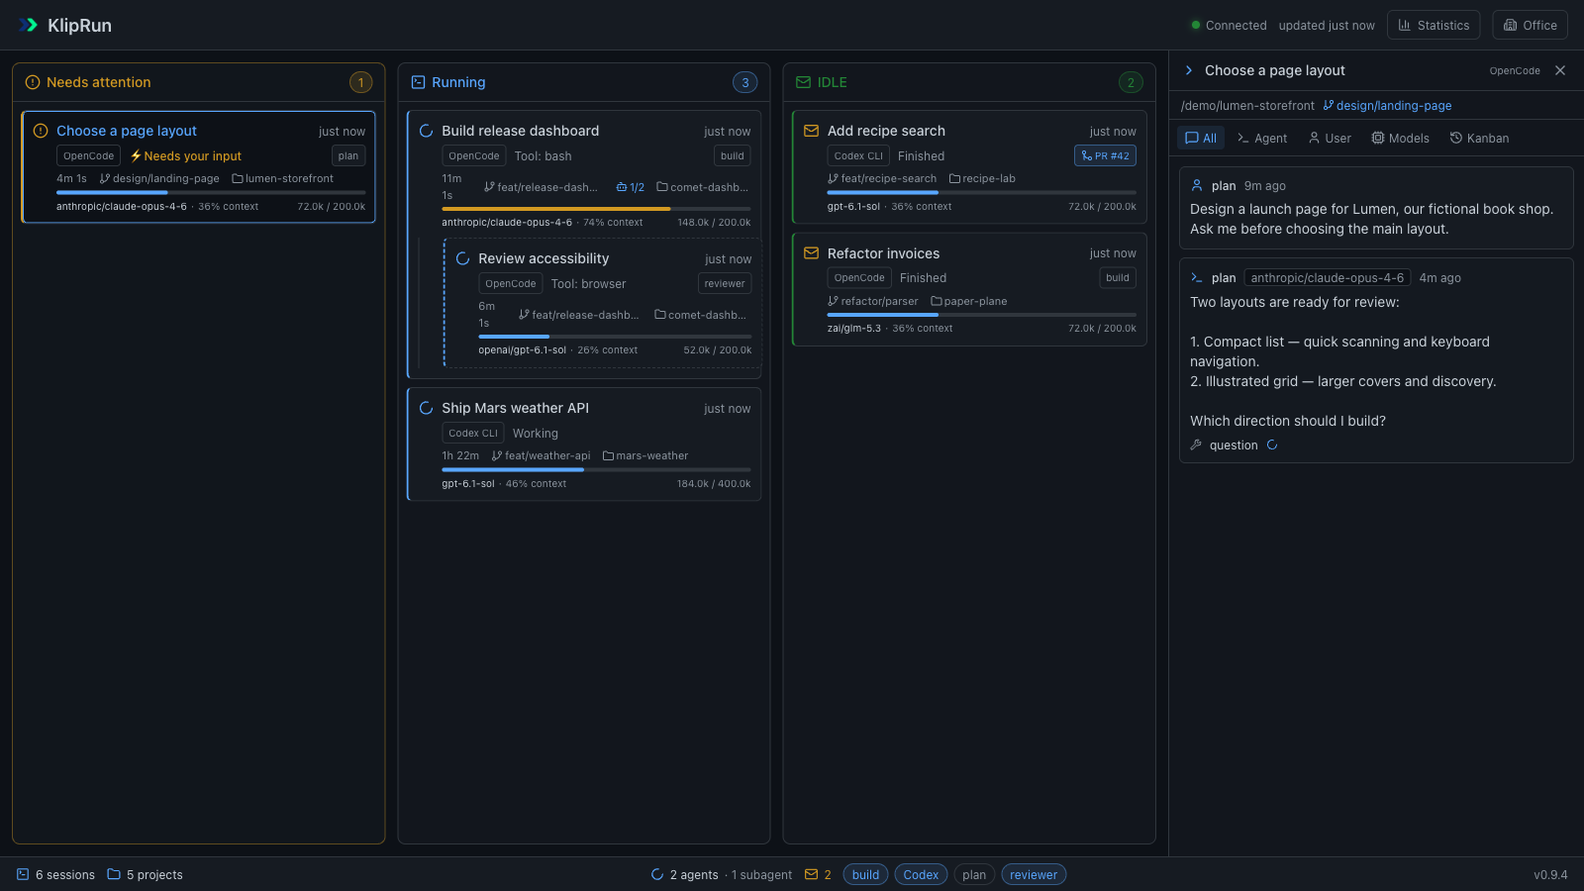
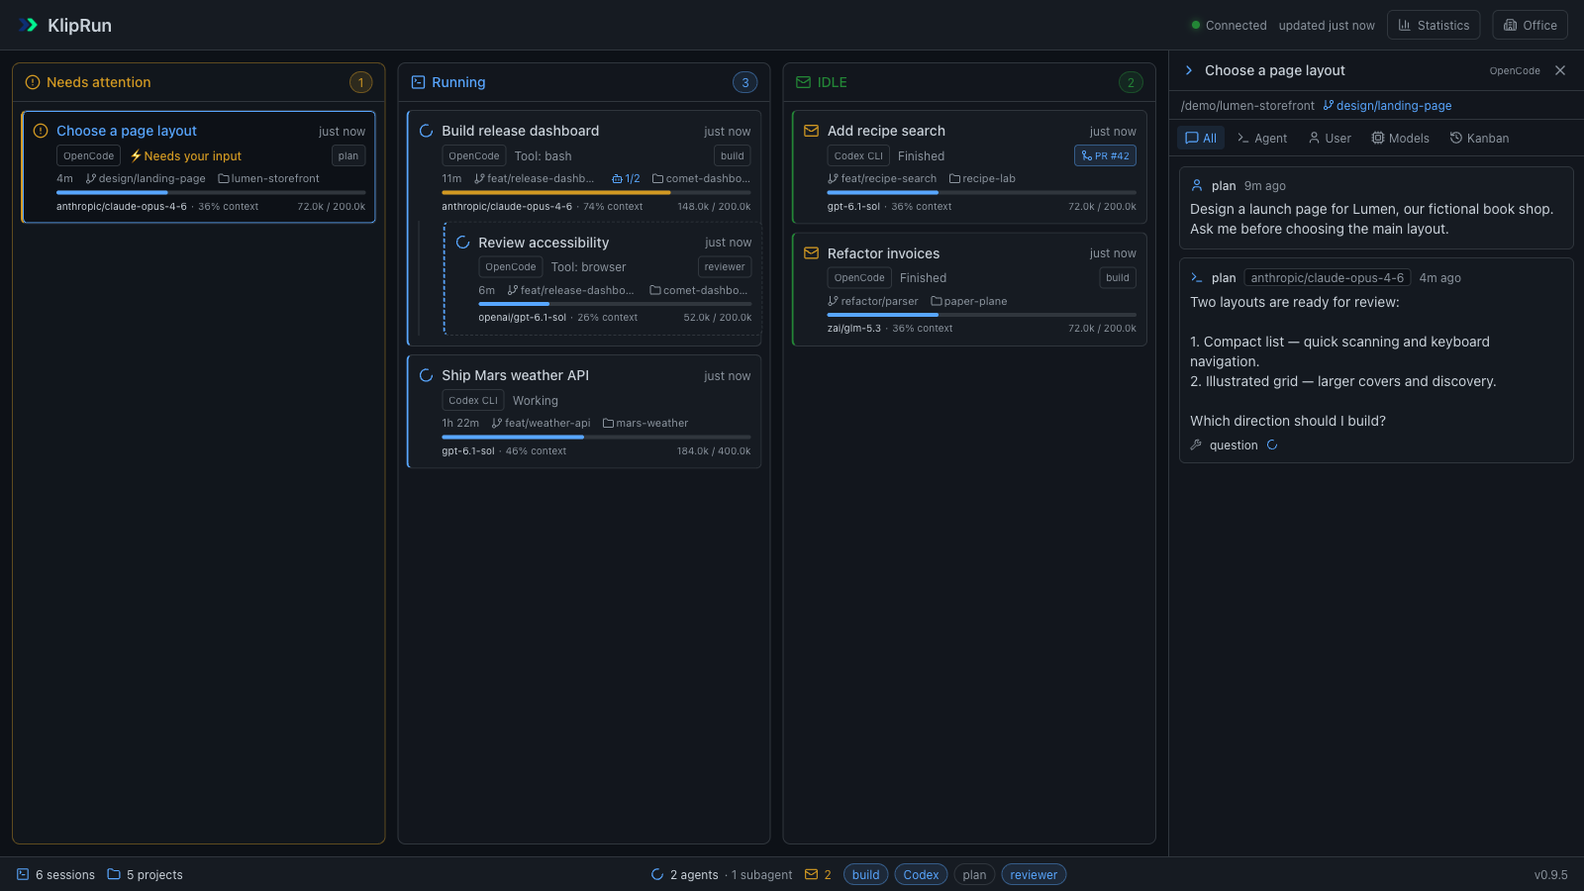
KlipRun: show unread idle coworkers in Office (v0.9.5)

Changed region(s): [[0.25, 0.1867, 0.4688, 0.56], [0.0625, 0.1867, 0.1875, 0.2178]]

diff --git a/src/client/src/office/__tests__/Office.test.tsx b/src/client/src/office/__tests__/Office.test.tsx
@@ -1,9 +1,12 @@
 import { expect, test } from "bun:test";
 import { renderToStaticMarkup } from "react-dom/server";
 import type { BoardPayload, CardPayload } from "../../../../shared/types";
+import { createReadTracker } from "../../../../shared/readTracker";
 import Office from "../Office";
 import { OfficeLeaderboard } from "../Leaderboard";
 import { updatePlacements } from "../placement";
+
+const readAll = () => true;
 
 function card(id: string, overrides: Partial<CardPayload> = {}): CardPayload {
   return {
@@ -28,7 +31,7 @@ function board(cards: CardPayload[]): BoardPayload {
 }
 
 test("office shows real sessions and active children with their observed states", () => {
-  const html = renderToStaticMarkup(<Office board={board([
+  const html = renderToStaticMarkup(<Office isRead={readAll} board={board([
     card("coder", { children: [card("helper", { parent_id: "coder" })] }),
     card("question", { column: "attention" }),
     card("rest", { column: "idle" }),
@@ -44,12 +47,12 @@ test("office shows real sessions and active children with their observed states"
 });
 
 test("office distinguishes loading from an empty live board", () => {
-  expect(renderToStaticMarkup(<Office board={null} onSelect={() => {}} />)).toContain("Loading office");
-  expect(renderToStaticMarkup(<Office board={board([])} onSelect={() => {}} />)).toContain("The office is quiet");
+  expect(renderToStaticMarkup(<Office isRead={readAll} board={null} onSelect={() => {}} />)).toContain("Loading office");
+  expect(renderToStaticMarkup(<Office isRead={readAll} board={board([])} onSelect={() => {}} />)).toContain("The office is quiet");
 });
 
 test("the empty waiting area is a persistent meeting room rather than an unoccupied help queue", () => {
-  const html = renderToStaticMarkup(<Office board={board([])} onSelect={() => {}} />);
+  const html = renderToStaticMarkup(<Office isRead={readAll} board={board([])} onSelect={() => {}} />);
   expect(html).toContain('aria-label="Meeting room"');
   expect(html).toContain('aria-label="Meeting room available"');
   expect(html).not.toContain("Human needed");
@@ -57,7 +60,7 @@ test("the empty waiting area is a persistent meeting room rather than an unoccup
 });
 
 test("a coworker with a question sits in the meeting room and requests input immediately", () => {
-  const html = renderToStaticMarkup(<Office board={board([card("question", { column: "attention", running_since: null })])} onSelect={() => {}} />);
+  const html = renderToStaticMarkup(<Office isRead={readAll} board={board([card("question", { column: "attention", running_since: null })])} onSelect={() => {}} />);
   const meeting = html.match(/<section[^>]*aria-label="Meeting room"[\s\S]*?<\/section>/)?.[0];
   expect(meeting).toBeDefined();
   expect(meeting).toContain('aria-label="Meeting needs your input"');
@@ -65,7 +68,7 @@ test("a coworker with a question sits in the meeting room and requests input imm
 });
 
 test("office rooms are independent peers in work, idle, meeting, superwork order with plain headings", () => {
-  const html = renderToStaticMarkup(<Office board={board([])} onSelect={() => {}} />);
+  const html = renderToStaticMarkup(<Office isRead={readAll} board={board([])} onSelect={() => {}} />);
   let depth = 0;
   const rooms: Array<{ name: string; depth: number }> = [];
   for (const match of html.matchAll(/<section\b[^>]*>|<\/section>/g)) {
@@ -84,7 +87,7 @@ test("office rooms are independent peers in work, idle, meeting, superwork order
 });
 
 test("a coworker keeps their color when their state and board position change", () => {
-  const render = (cards: CardPayload[]) => renderToStaticMarkup(<Office board={board(cards)} onSelect={() => {}} />);
+  const render = (cards: CardPayload[]) => renderToStaticMarkup(<Office isRead={readAll} board={board(cards)} onSelect={() => {}} />);
   const before = render([card("same"), card("other")]);
   const after = render([card("other"), card("same", { column: "attention" })]);
   const color = (html: string) => html.match(/data-session-id="same"[^>]*style="([^"]+)"/)?.[1];
@@ -95,7 +98,7 @@ test("a coworker keeps their color when their state and board position change", 
 
 test("only continuous running beyond one hour enters the superwork zone", () => {
   const now = 7_200_000;
-  const html = renderToStaticMarkup(<Office now={now} board={board([
+  const html = renderToStaticMarkup(<Office isRead={readAll} now={now} board={board([
     card("fresh", { running_since: now - 10_000 }),
     card("exact-hour", { running_since: now - 3_600_000 }),
     card("overtime", { running_since: now - 3_600_001 }),
@@ -115,13 +118,13 @@ test("only continuous running beyond one hour enters the superwork zone", () => 
 });
 
 test("the office keeps all three physical zones visible even without coworkers", () => {
-  const html = renderToStaticMarkup(<Office board={board([])} onSelect={() => {}} />);
+  const html = renderToStaticMarkup(<Office isRead={readAll} board={board([])} onSelect={() => {}} />);
   for (const zone of ["work", "lounge", "superwork"]) expect(html).toContain(`data-zone="${zone}"`);
 });
 
 test("the same running session moves after the hour boundary and leaves when it rests", () => {
   const live = board([card("traveler", { running_since: 1000 })]);
-  const render = (data: BoardPayload, now: number) => renderToStaticMarkup(<Office board={data} now={now} onSelect={() => {}} />);
+  const render = (data: BoardPayload, now: number) => renderToStaticMarkup(<Office isRead={readAll} board={data} now={now} onSelect={() => {}} />);
   expect(render(live, 3_601_000)).toContain('data-office-zone="work"');
   expect(render(live, 3_601_001)).toContain('data-office-zone="superwork"');
   const rested = board([card("traveler", { column: "idle", running_since: null })]);
@@ -129,7 +132,7 @@ test("the same running session moves after the hour boundary and leaves when it 
 });
 
 test("coworkers show their model and the time spent in their current state above their heads", () => {
-  const html = renderToStaticMarkup(<Office now={120_000} board={board([
+  const html = renderToStaticMarkup(<Office isRead={readAll} now={120_000} board={board([
     card("worker", { running_since: 60_000, model_ref: "openai/gpt-6.1" }),
     card("idle-timer", { column: "idle", running_since: null, stage_since: 30_000, finished_at: 10_000, model_ref: "anthropic/claude-opus" }),
     card("wait-timer", { column: "attention", running_since: null, stage_since: 110_000 }),
@@ -164,6 +167,33 @@ test("leaderboard ranks current coworkers by accumulated usage, not their contex
   expect(html).toContain("No data");
   expect(html).toContain("Partial data");
   expect(html).not.toContain("foreign");
+});
+
+test("unread idle coworkers ask for review and return to their normal resting pose after viewing", () => {
+  const tracker = createReadTracker(null);
+  const idle = card("review", { column: "idle", running_since: null, stage_since: 1000, finished_at: 1000 });
+  const render = (item = idle) => renderToStaticMarkup(<Office now={3000} board={board([item])} isRead={tracker.isRead} onSelect={() => {}} />);
+  const unread = render();
+  expect(unread).toContain('data-office-unread="true"');
+  expect(unread).toContain("Not viewed yet");
+  expect(unread).not.toContain('class="office-zzz"');
+  expect(unread).toContain('data-office-state="resting" data-office-zone="lounge"');
+  tracker.markRead(idle);
+  const viewed = render();
+  expect(viewed).toContain('data-office-unread="false"');
+  expect(viewed).toContain('class="office-zzz"');
+  expect(viewed).not.toContain("Not viewed yet");
+  const completedAgain = { ...idle, stage_since: 2000, finished_at: 2000 };
+  expect(render(completedAgain)).toContain('data-office-unread="true"');
+});
+
+test("unknown, working and waiting statuses do not gain an unread idle pose", () => {
+  for (const item of [card("active"), card("question", { column: "attention" }),
+    card("unknown", { source: "codex", column: "idle", stage: "Status unknown" })]) {
+    const html = renderToStaticMarkup(<Office now={3000} board={board([item])} isRead={() => false} onSelect={() => {}} />);
+    expect(html).toContain('data-office-unread="false"');
+    expect(html).not.toContain('data-office-unread="true"');
+  }
 });
 
 test("a brief idle snapshot keeps the coworker at their desk and resuming cancels the move", () => {

diff --git a/src/client/src/office/Office.tsx b/src/client/src/office/Office.tsx
@@ -1,6 +1,7 @@
 import { useEffect, useMemo, useRef, type CSSProperties } from "react";
 import { ArrowLeft } from "lucide-react";
 import type { BoardPayload, CardPayload } from "@shared/types";
+import type { TrackedCard } from "@shared/readTracker";
 import { formatDuration } from "@shared/format";
 import { colorFor, Mascot, modelName } from "./appearance";
 import { OfficeLeaderboard, useOfficeUsage } from "./Leaderboard";
@@ -12,7 +13,7 @@ const CAPTIONS = {
   resting: "On a coffee break", unknown: "Status unknown", error: "A little technical drama",
 };
 
-function Workstation({ state, small, zone }: { state: ReturnType<typeof stateFor>; small: boolean; zone: OfficeZone }) {
+function Workstation({ state, small, zone, unread }: { state: ReturnType<typeof stateFor>; small: boolean; zone: OfficeZone; unread: boolean }) {
   const atDesk = state === "working";
   return <svg viewBox="0 0 240 164" className="office-station" aria-hidden="true" shapeRendering="crispEdges">
     <ellipse cx="120" cy="145" rx="83" ry="9" fill="#101722" opacity=".35" />
@@ -37,12 +38,13 @@ function Workstation({ state, small, zone }: { state: ReturnType<typeof stateFor
     {state === "waiting" && <g className="office-bubble"><path d="M132 13h30v28h-18l-8 8v-8h-4z" fill="#efd081" /><text x="147" y="34" textAnchor="middle" fill="#392e21" fontSize="22" fontWeight="bold">?</text></g>}
     {state === "error" && <g className="office-bubble"><path d="M132 13h30v28h-18l-8 8v-8h-4z" fill="#f38c86" /><text x="147" y="34" textAnchor="middle" fill="#392e21" fontSize="22" fontWeight="bold">!</text></g>}
     {state === "unknown" && <text x="150" y="36" fill="#9aa9be" fontSize="22">?</text>}
-    {state === "resting" && <text className="office-zzz" x="147" y="42" fill="#a5b6cc" fontSize="16">z z</text>}
+    {state === "resting" && !unread && <text className="office-zzz" x="147" y="42" fill="#a5b6cc" fontSize="16">z z</text>}
   </svg>;
 }
 
-export default function Office({ board, onSelect, onBack, now = Date.now() }: {
-  board: BoardPayload | null; onSelect: (id: string) => void; onBack?: () => void; now?: number;
+export default function Office({ board, onSelect, onBack, isRead, now = Date.now() }: {
+  board: BoardPayload | null; onSelect: (id: string) => void; onBack?: () => void;
+  isRead: (card: TrackedCard) => boolean; now?: number;
 }) {
   const residents = useMemo(() => {
     const result: CardPayload[] = [];
@@ -84,19 +86,20 @@ export default function Office({ board, onSelect, onBack, now = Date.now() }: {
 
   const renderResident = (card: CardPayload, zone: OfficeZone) => {
     const state = stateFor(card);
+    const unread = zone === "lounge" && card.column === "idle" && state !== "unknown" && !isRead(card);
     const since = state === "working" ? card.running_since : state === "unknown" ? null : card.stage_since;
     const duration = since !== null && since > 0 && Number.isFinite(since) ? formatDuration(Math.max(0, now - since)) : null;
     const timerLabel = { working: "Working", resting: "Idle", waiting: "Waiting", error: "Error", unknown: "Status unknown" }[state];
     const model = modelName(card);
-    return <button type="button" key={card.session_id} data-session-id={card.session_id} data-office-state={state} data-office-zone={zone}
-      className={`office-resident office-${state}`} style={{ "--resident-color": colorFor(card.session_id) } as CSSProperties}
-      onClick={() => onSelect(card.session_id)} aria-label={`${card.title} — ${CAPTIONS[state]} — ${card.stage}`}
-      title={`${card.title}\n${card.directory_name} · ${model}${card.parent_id ? " · Subagent" : ""}\n${card.stage}${duration ? ` · ${duration}` : ""}${card.error ? `\n${card.error}` : ""}`}>
+    return <button type="button" key={card.session_id} data-session-id={card.session_id} data-office-state={state} data-office-zone={zone} data-office-unread={unread}
+      className={`office-resident office-${state}${unread ? " office-unread" : ""}`} style={{ "--resident-color": colorFor(card.session_id) } as CSSProperties}
+      onClick={() => onSelect(card.session_id)} aria-label={`${card.title} — ${CAPTIONS[state]} — ${card.stage}${unread ? " — Not viewed yet" : ""}`}
+      title={`${card.title}\n${card.directory_name} · ${model}${card.parent_id ? " · Subagent" : ""}\n${card.stage}${duration ? ` · ${duration}` : ""}${card.error ? `\n${card.error}` : ""}${unread ? "\nNot viewed yet — click to inspect" : ""}`}>
       <span className="office-timer" data-timer-state={state}>
         <span className="office-timer-session">{card.title}</span>
         <span>{timerLabel}{duration ? ` · ${duration}` : state === "unknown" ? "" : " · —"}</span>
       </span>
-      <Workstation state={state} small={!!card.parent_id} zone={zone} />
+      <Workstation state={state} small={!!card.parent_id} zone={zone} unread={unread} />
       <span className="office-nameplate"><span className="office-model-label">{model}</span>{card.parent_id && <small>Subagent</small>}</span>
       <span className="office-tooltip"><strong>{card.title}</strong><span>{card.directory_name} · {card.source}</span>
         <span>{card.stage} · {CAPTIONS[state]}</span>{card.error && <span>{card.error}</span>}</span>

diff --git a/src/client/src/App.tsx b/src/client/src/App.tsx
@@ -79,13 +79,10 @@ export default function App() {
 
   const select = useCallback(
     (id: string) => {
-      setSelectedId((prev) => {
-        if (prev === id) return prev;
-        // Opening details marks an IDLE card as read.
-        const card = board ? findCard(board, id) : null;
-        if (card) markRead(card as TrackedCard);
-        return id;
-      });
+      // A new idle completion needs marking even when its details are already selected.
+      const card = board ? findCard(board, id) : null;
+      if (card?.column === "idle") markRead(card);
+      setSelectedId(id);
     },
     [board, markRead],
   );
@@ -136,7 +133,7 @@ export default function App() {
 
       {page === "office" && <main className="office-view flex-1 min-h-0 flex">
         <Suspense fallback={<div className="flex-1 flex items-center justify-center text-text-secondary">Loading office…</div>}>
-          <Office board={board} now={now} onSelect={select} onBack={backToBoard} />
+          <Office board={board} now={now} isRead={isRead} onSelect={select} onBack={backToBoard} />
         </Suspense>
         {selectedId && <DetailsPanel sessionId={selectedId} onClose={() => setSelectedId(null)} />}
       </main>}

diff --git a/src/client/src/office/office.css b/src/client/src/office/office.css
@@ -86,8 +86,11 @@
 .office-zone-superwork .office-mascot { filter: drop-shadow(0 0 7px #b880ff80); }
 .office-sparks { animation: office-blink .6s steps(2) infinite; }
 .office-waiting .office-arm-right { transform: rotate(-145deg); }
+.office-unread .office-arm-right { transform: rotate(-145deg) scaleY(2.2); }
+.office-unread .office-timer { border-color: #efd08188; }
 .office-bubble { animation: office-bob 1.8s ease-in-out infinite; }
 .office-resting .office-eyes { transform: scaleY(.3); transform-origin: 0 77px; }
+.office-unread .office-eyes { transform: none; }
 .office-resting .office-zzz { animation: office-bob 3s ease-in-out infinite; }
 .office-steam { animation: office-steam 3s ease-in-out infinite; }
 .office-footer { display: flex; align-items: center; flex-wrap: wrap; gap: 20px; padding: 15px 20px; border-top: 1px solid #354357; background: #1a2535; color: #a7b7cc; font: 11px ui-monospace, monospace; }

diff --git a/AGENTS.md b/AGENTS.md
@@ -2,8 +2,9 @@
 
 ## Purpose
 
-KlipRun is a local, read-only Kanban board for observing OpenCode and Codex CLI sessions
-with a currently open TUI. It reads the OpenCode SQLite database directly
+KlipRun is a local, read-only monitor with Kanban, Statistics and Agent Office views
+for observing OpenCode and Codex CLI sessions with a currently open TUI.
+It reads the OpenCode SQLite database directly
 (read-only) and reacts to file changes; it never calls OpenCode APIs and never
 manages OpenCode processes.
 
@@ -25,7 +26,7 @@ the shared app-server. The TUI-originator allowlist lives in
 `src/server/codex/storage.ts` (`TUI_ORIGINATORS`); keep storage, liveness
 and the usage importer on the same predicate.
 Cards/details carry
-`source`; Codex IDs use `codex:<uuid>`. Unknown Codex status belongs in IDLE
+`source`; Codex IDs use `codex:<uuid>`. On the board, unknown Codex status belongs in IDLE
 with neutral styling, never an invented completion. Codex subagents and MR
 extraction are out of scope for this adapter's first version.
 For Codex titles, read `threads.name` when nonempty and fall back to
@@ -63,14 +64,16 @@ fs.watch opencode.db-wal (100ms debounce)  ──┐
 fs.watch ~/.cache/opencode-hermes/instances ─├─→ invalidate → SSE push + ETag poll
 3s loop: ps + lsof + Hermes parse           ─┘
                      │
-bun:sqlite (read-only) → Engine (classifier) → history → /api/board → React kanban
+bun:sqlite (read-only) → Engine (classifier) → history → /api/board → Board + Office
 ```
 
 - `src/server/index.ts` — Hono bootstrap, CORS, static client serving, shutdown.
 - `src/server/storage/db.ts`, `queries.ts` — read-only SQLite access. All queries
   must stay bounded (LIMIT) and index-friendly.
 - `src/server/watcher.ts` — fs.watch on db/wal (preferring `-wal`) and the
-  Hermes instances directory; debounced `change` events with rebinding.
+  Hermes instances directory, plus Codex DB/WAL, rollouts and Hermes session
+  paths. The existing 100 ms rebind loop checks inode, mtime and size for Codex
+  targets to recover missed native notifications; reuse these metadata checks.
 - `src/server/liveness.ts` — TUI detection: `ps` + `lsof -d cwd` + Hermes
   heartbeats → open TUI directories, matched session ids, `waiting` sessions.
   Heartbeats older than 30 s are ignored.
@@ -107,6 +110,12 @@ bun:sqlite (read-only) → Engine (classifier) → history → /api/board → Re
   (`active/total`, Bot icon), MR chips and a context-window progress bar
   (accent → warning ≥70% → error ≥90%). The status bar splits running cards
   into agents and subagents.
+- `src/client/src/App.tsx` — Board (`/`), Statistics (`/stats`) and Office
+  (`/office`) navigation, shared live board data and session details. Preserve
+  browser back/forward behavior and remembered Statistics query filters.
+- `src/client/src/office/` — pixel-art Office. Read `placement.ts` before
+  changing seating; `Office.tsx` owns room capacity, `Leaderboard.tsx` loads
+  usage, and `office.css` / `meeting-room.svg` define the room presentation.
 
 ## Key contracts
 
@@ -141,6 +150,40 @@ bun:sqlite (read-only) → Engine (classifier) → history → /api/board → Re
   model/agent attribution. Filters select contributions inside task trees.
   Unknown dates enter all-history totals only; source costs show coverage.
 
+## Office presentation contracts
+
+- Render only current board cards and their visible descendants, each once.
+  Placement is client-only: badges and time counters use observed status;
+  classification, history and Running attribution use raw server observations.
+- Desktop room order is a 2×2 grid: Work / Idle above Meeting / Superwork.
+  Narrow screens use Work → Idle → Meeting → Superwork. Meeting and Superwork
+  have plain English headings without emoji or icons. Start empty rooms with
+  compact footprints rather than spanning both desktop rows.
+- Superwork requires Running with a known `running_since` older than one hour.
+  Attention sessions enter Meeting immediately; errors remain immediate.
+  Initial Idle sessions start in the lounge. Existing coworkers move there only
+  after five continuous seconds of client-observed Idle; resuming cancels that move.
+- Unknown status keeps an existing coworker's last known seat with a neutral
+  label; it establishes neither completion nor continued work. A new unknown
+  session starts in the lounge. Unknown snapshots do not confirm an Idle pause.
+- Reserve surviving seat numbers before assigning newcomers; reuse holes
+  without compacting neighbors. Keep room capacity at its observed high-water
+  mark for the current view, including initial active/unknown desk reservations.
+  Empty slots and stable scrollbar width prevent room and coworker jumps.
+  Keep coworker colors keyed by `session_id`, independent of sorting or status.
+- Labels show the session title and status duration above, and the recorded
+  model below; use explicit unknown/dash fallbacks. Timers tick every second.
+- Known Idle/error coworkers in the lounge raise a hand for an unread Idle
+  revision, using the shared Kanban read tracker. Opening their details on Board
+  or Office marks that revision read; a later completion becomes unread again.
+  Unknown status stays neutral. This review pose changes neither status nor room.
+- Leaderboard shows current session titles, models and nine full desktop rows.
+  Read all-history per-session totals through `/api/stats/office-usage`:
+  validated batches of at most 50 repeated `session` parameters, worker-side
+  indexed sums, refreshed every 30 s. Each subagent contributes its own usage
+  once. Board `tokens_total` is not accumulated consumption; preserve missing
+  and partial-data markers rather than substituting context tokens or zero.
+
 ## Configuration
 
 - `KLIPRUN_BUN_PORT` (default 8792; `--port` flag wins).
@@ -163,12 +206,19 @@ bun run dev                # server with --watch (port 8792)
 bun run dev:client         # Vite dev server (5173, proxies /api → 8792)
 bun run build              # build client into src/client/dist
 bun run start              # production server (serves built client)
-bun run test               # server, shared and statistics calendar/filter tests
+bun run test               # server, shared, statistics and Office tests
 bunx tsc -b                # typecheck (server + shared)
 ```
 
 - For logic changes, add a regression test first where practical
-  (see `src/server/__tests__/` and `src/shared/__tests__/`).
+  (see `src/server/__tests__/`, `src/shared/__tests__/` and
+  `src/client/src/office/__tests__/`).
 - For UI changes, keep the dark theme and verify in a browser on a real board
-  page.
+  page at desktop/mobile widths. Office checks include empty/occupied rooms,
+  short Idle and unknown transitions, newcomer/removal seating, and 0–2
+  Superwork coworkers. Verify reduced-motion behavior when changing animation.
+- README and public preview screenshots use **fictional** sessions, projects,
+  paths, messages and usage. Capture in an isolated browser context with every
+  API response overridden and unmatched API requests blocked; inspect the final
+  images for leaks or invalid values. Keep Office first in the README previews.
 - Do not claim a check passed unless you ran the command.

diff --git a/CHANGELOG.md b/CHANGELOG.md
@@ -4,6 +4,26 @@ All notable changes to this project are documented in this file.
 The format is based on [Keep a Changelog](https://keepachangelog.com/en/1.1.0/),
 and this project adheres to [Semantic Versioning](https://semver.org/spec/v2.0.0.html).
 
+## [0.9.5] - 2026-10-12
+
+### Added
+- Unreviewed Idle coworkers in the Office lounge raise a hand and keep their
+  eyes open. Opening their details restores the normal resting pose. The review
+  marker is shared with Kanban envelopes, persists across reloads, and becomes
+  unread again when the session completes another turn.
+- Known error coworkers also request review; unknown statuses remain neutral.
+  The review pose changes neither observed status nor room placement.
+
+### Fixed
+- Clicking an already-selected Idle session now marks a new completion as read
+  instead of returning early and leaving the review notification active.
+
+### Changed
+- Updated agent instructions to cover Office navigation, placement stability,
+  token ranking APIs, review poses, watcher recovery and fictional-only previews.
+- Refreshed all README screenshots using fictional data for this version,
+  showing the raised-hand review pose with Office still first.
+
 ## [0.9.4] - 2026-10-12
 
 ### Changed

diff --git a/README.md b/README.md
@@ -49,6 +49,8 @@ databases are opened read-only.
   amber indicator. The empty room keeps its furniture and stable height.
   The four rooms use a compact 2×2 layout: Work and Idle above Meeting room
   and Superwork, with the same reading order on narrow screens.
+  Unreviewed Idle coworkers raise a hand. Opening details in Office or Kanban
+  clears the shared read marker; a new completion raises the hand again.
 - Live updates over Server-Sent Events (~100 ms) with ETag polling fallback.
 
 ## Quick start
